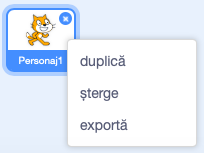
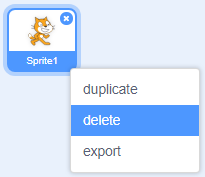
Add images
Romanian

Changed region(s): [[0.0, 0.0, 0.9706, 0.9935], [0.3824, 0.4706, 0.6765, 0.549]]

diff --git a/ro-RO/step_1.md b/ro-RO/step_1.md
@@ -1,13 +1,13 @@
 Puteți utiliza Scratch online sau offline.
 
-+ **Online** - pentru a creea un nou proiect Scratch folosind editorul online, mergeți la <a href="http://rpf.io/scratch-new" target="_blank">rpf.io/scratch-nou</a>
++ **Online** - to create a new Scratch project using the online editor, go to <a href="http://rpf.io/scratch-new" target="_blank">rpf.io/scratch-new</a>
 
-+ **Offline** - dacă alegeți să lucrați offline și nu aveți editorul instalat deja, îl puteți descărca chiar de aici <a href="http://rpf.io/scratch-off" target="_blank">rpf.io/scratch-off</a>
++ **Offline** - if you prefer to work offline and have not installed the editor yet, you can download it from <a href="http://rpf.io/scratch-off" target="_blank">rpf.io/scratch-off</a>
 
 Editorul Scratch arată astfel:
 
 ![captură de ecran](images/scratch-editor.png)
 
-+ Sprite-ul pisică, pe care-l puteți vedea, este chiar mascota Scratch. Dacă doriți un proiect Scratch gol, puteți șterge pisica, apăsând pe click dreapta și apoi pe **șterge**.
++ The cat sprite that you can see is the Scratch mascot. If you need an empty Scratch project, you can delete the cat by right-clicking it and then clicking **delete**.
 
 ![captură de ecran](images/delete.png)
